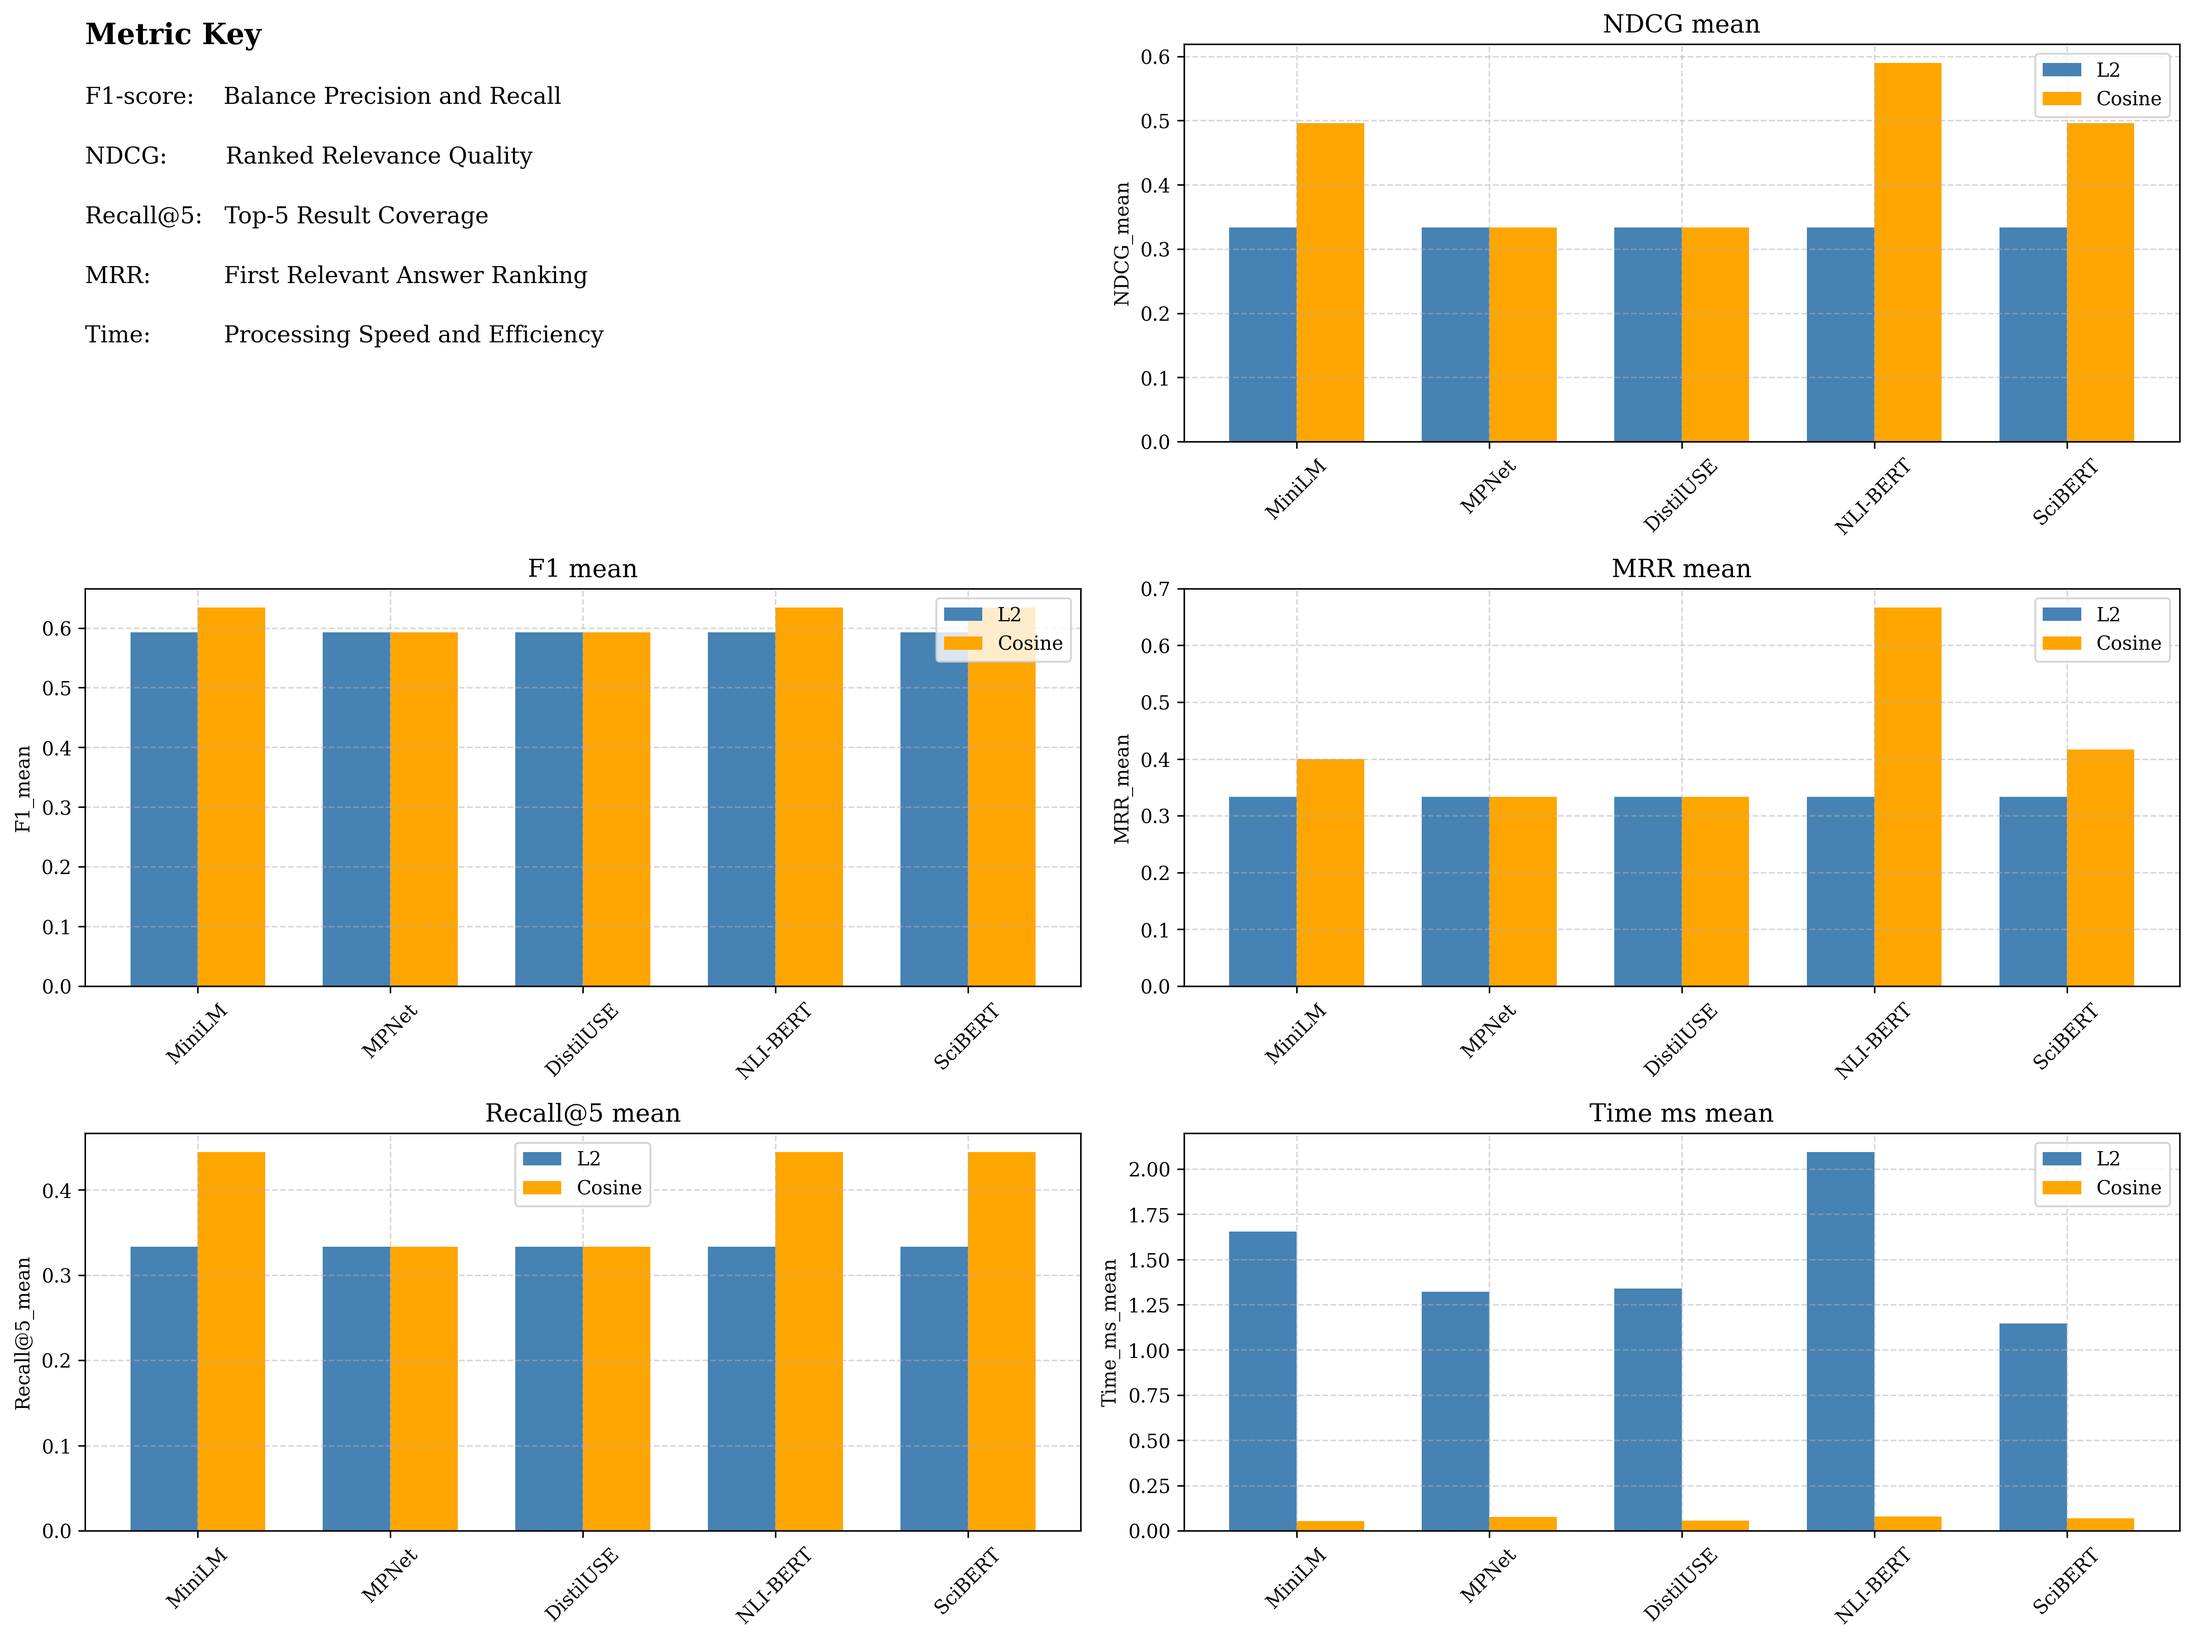
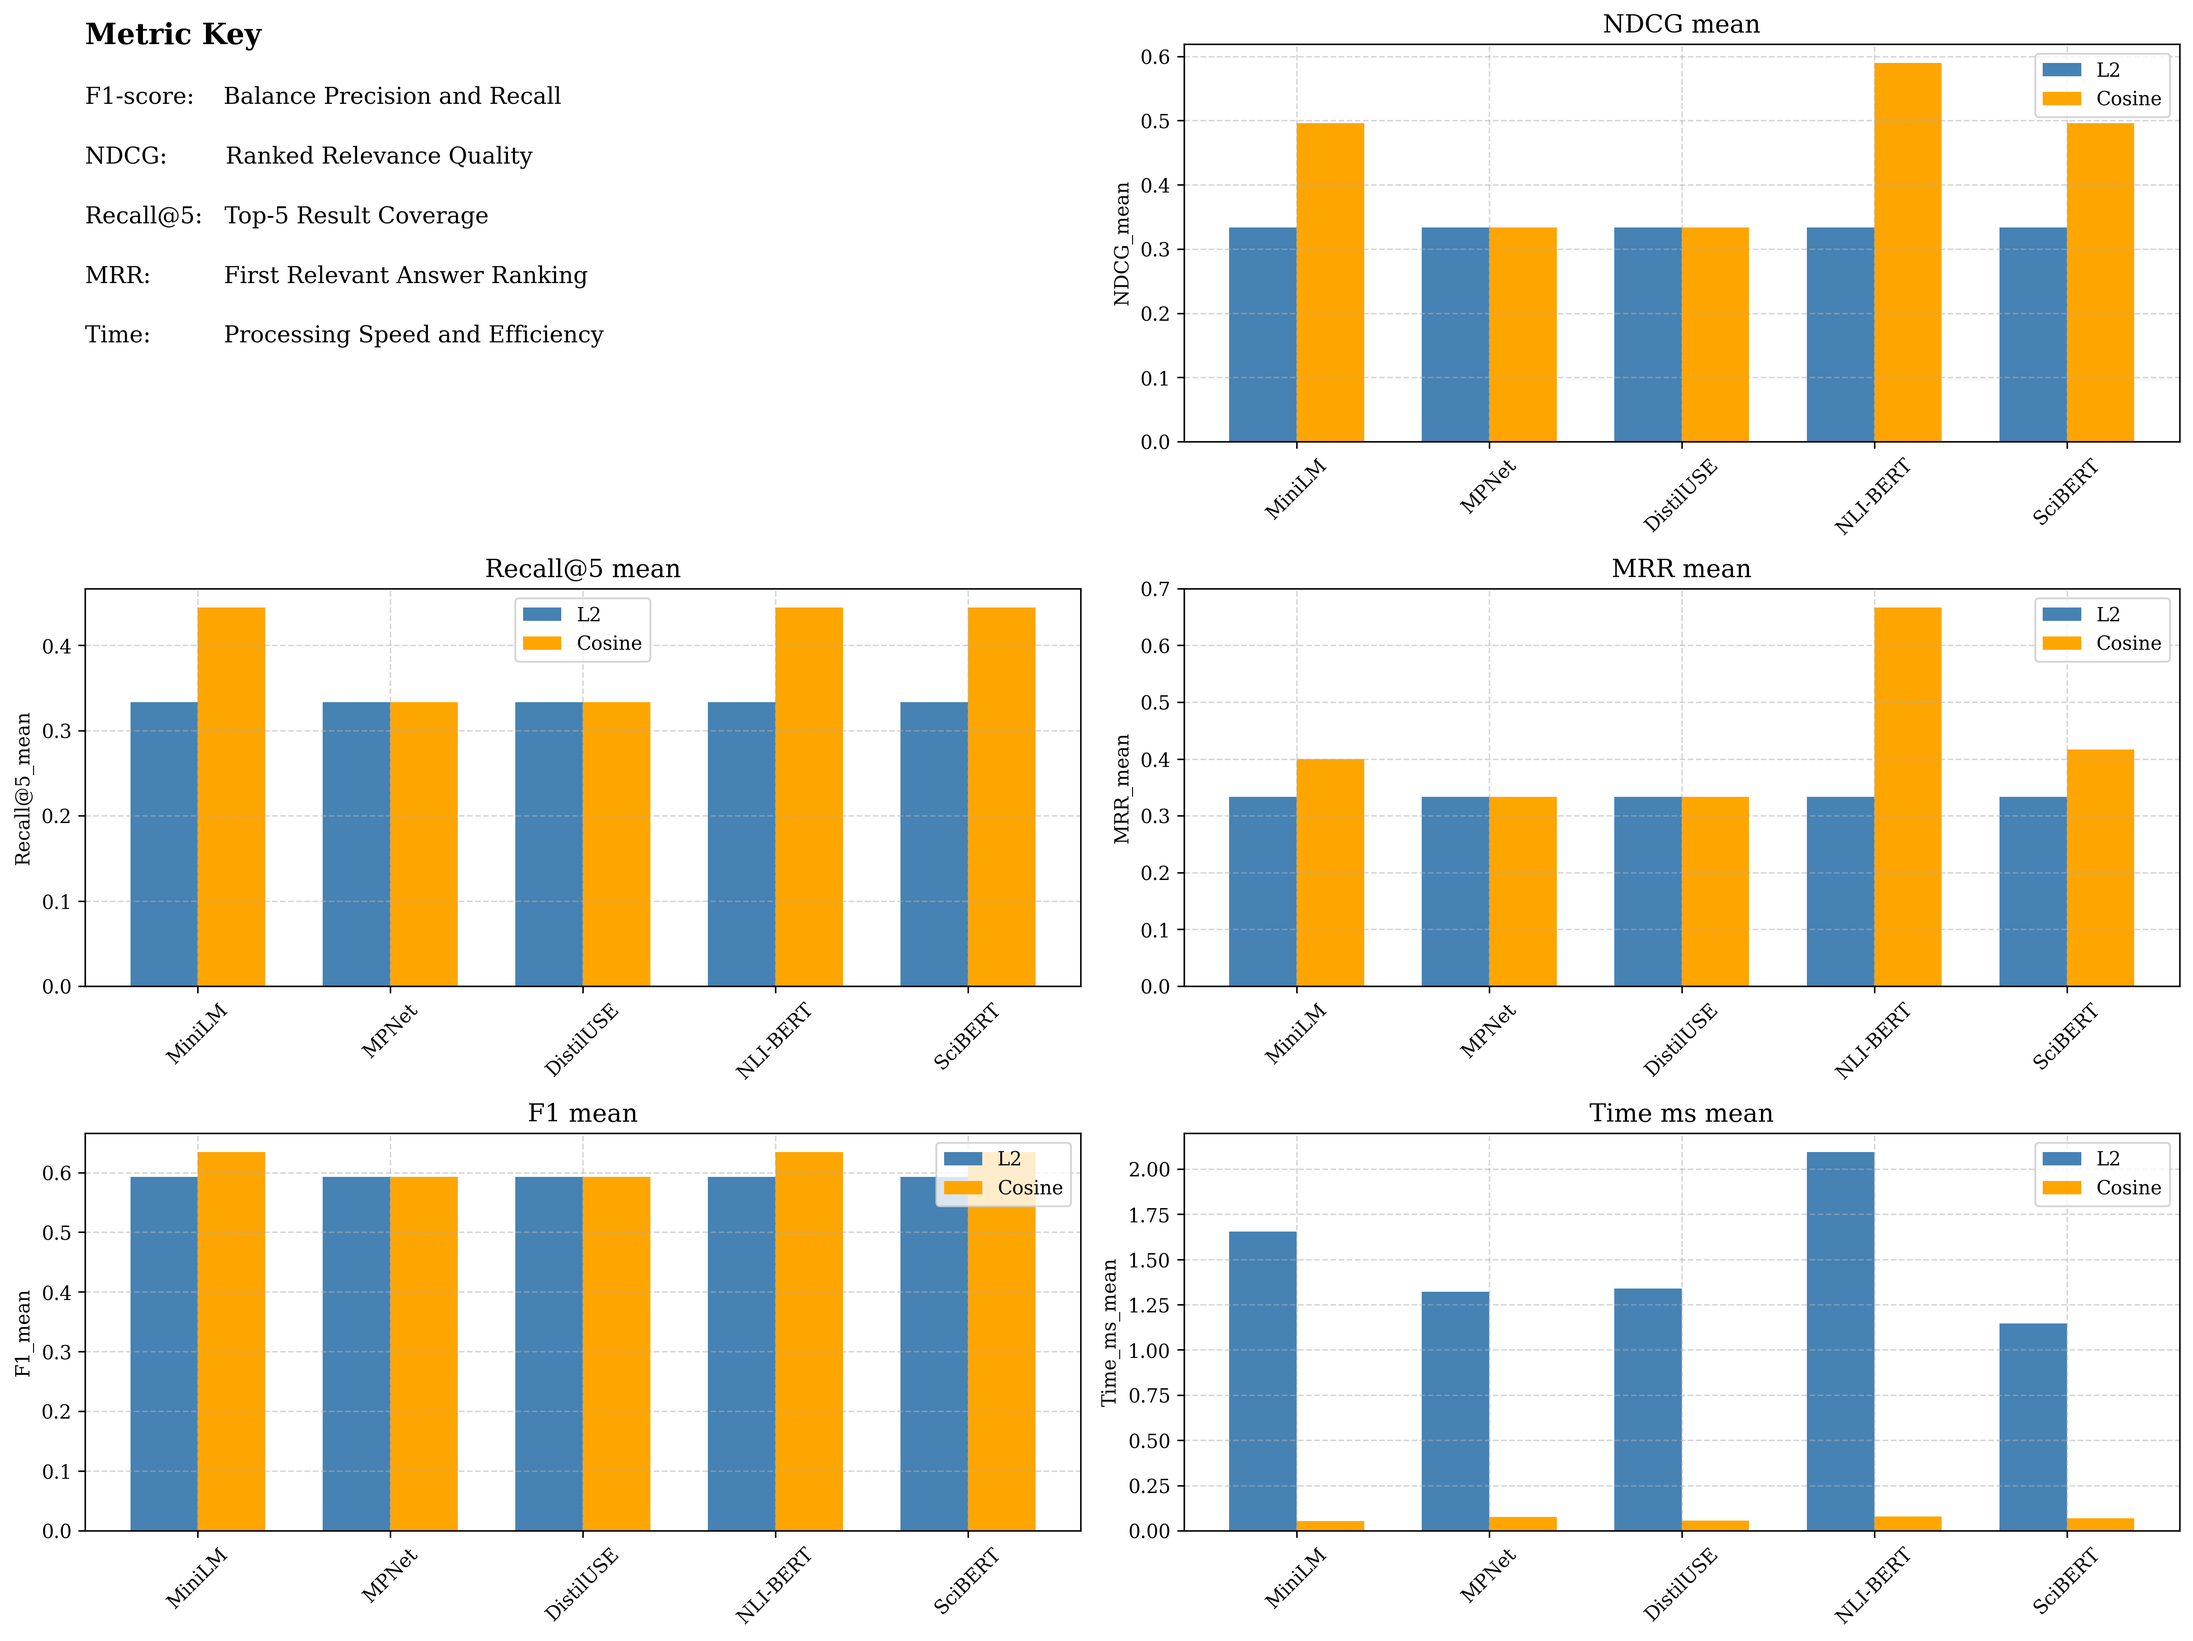
bar_graph edits

diff --git a/src/testing/comparison/bar_graph.py b/src/testing/comparison/bar_graph.py
@@ -12,7 +12,7 @@ df = pd.read_csv("embeddings_all_metrics.csv")
 df["method"] = df["model"] + " (" + df["similarity"] + ")"
 
 # Metrics to plot
-metrics = ['NDCG_mean', 'F1_mean', 'MRR_mean', 'Recall@5_mean', 'Time_ms_mean']
+metrics = ['NDCG_mean', 'Recall@5_mean', 'MRR_mean','F1_mean', 'Time_ms_mean']
 
 # Plot grouped bars for L2 vs Cosine per model
 fig, axes = plt.subplots(nrows=3, ncols=2, figsize=(16, 12))
